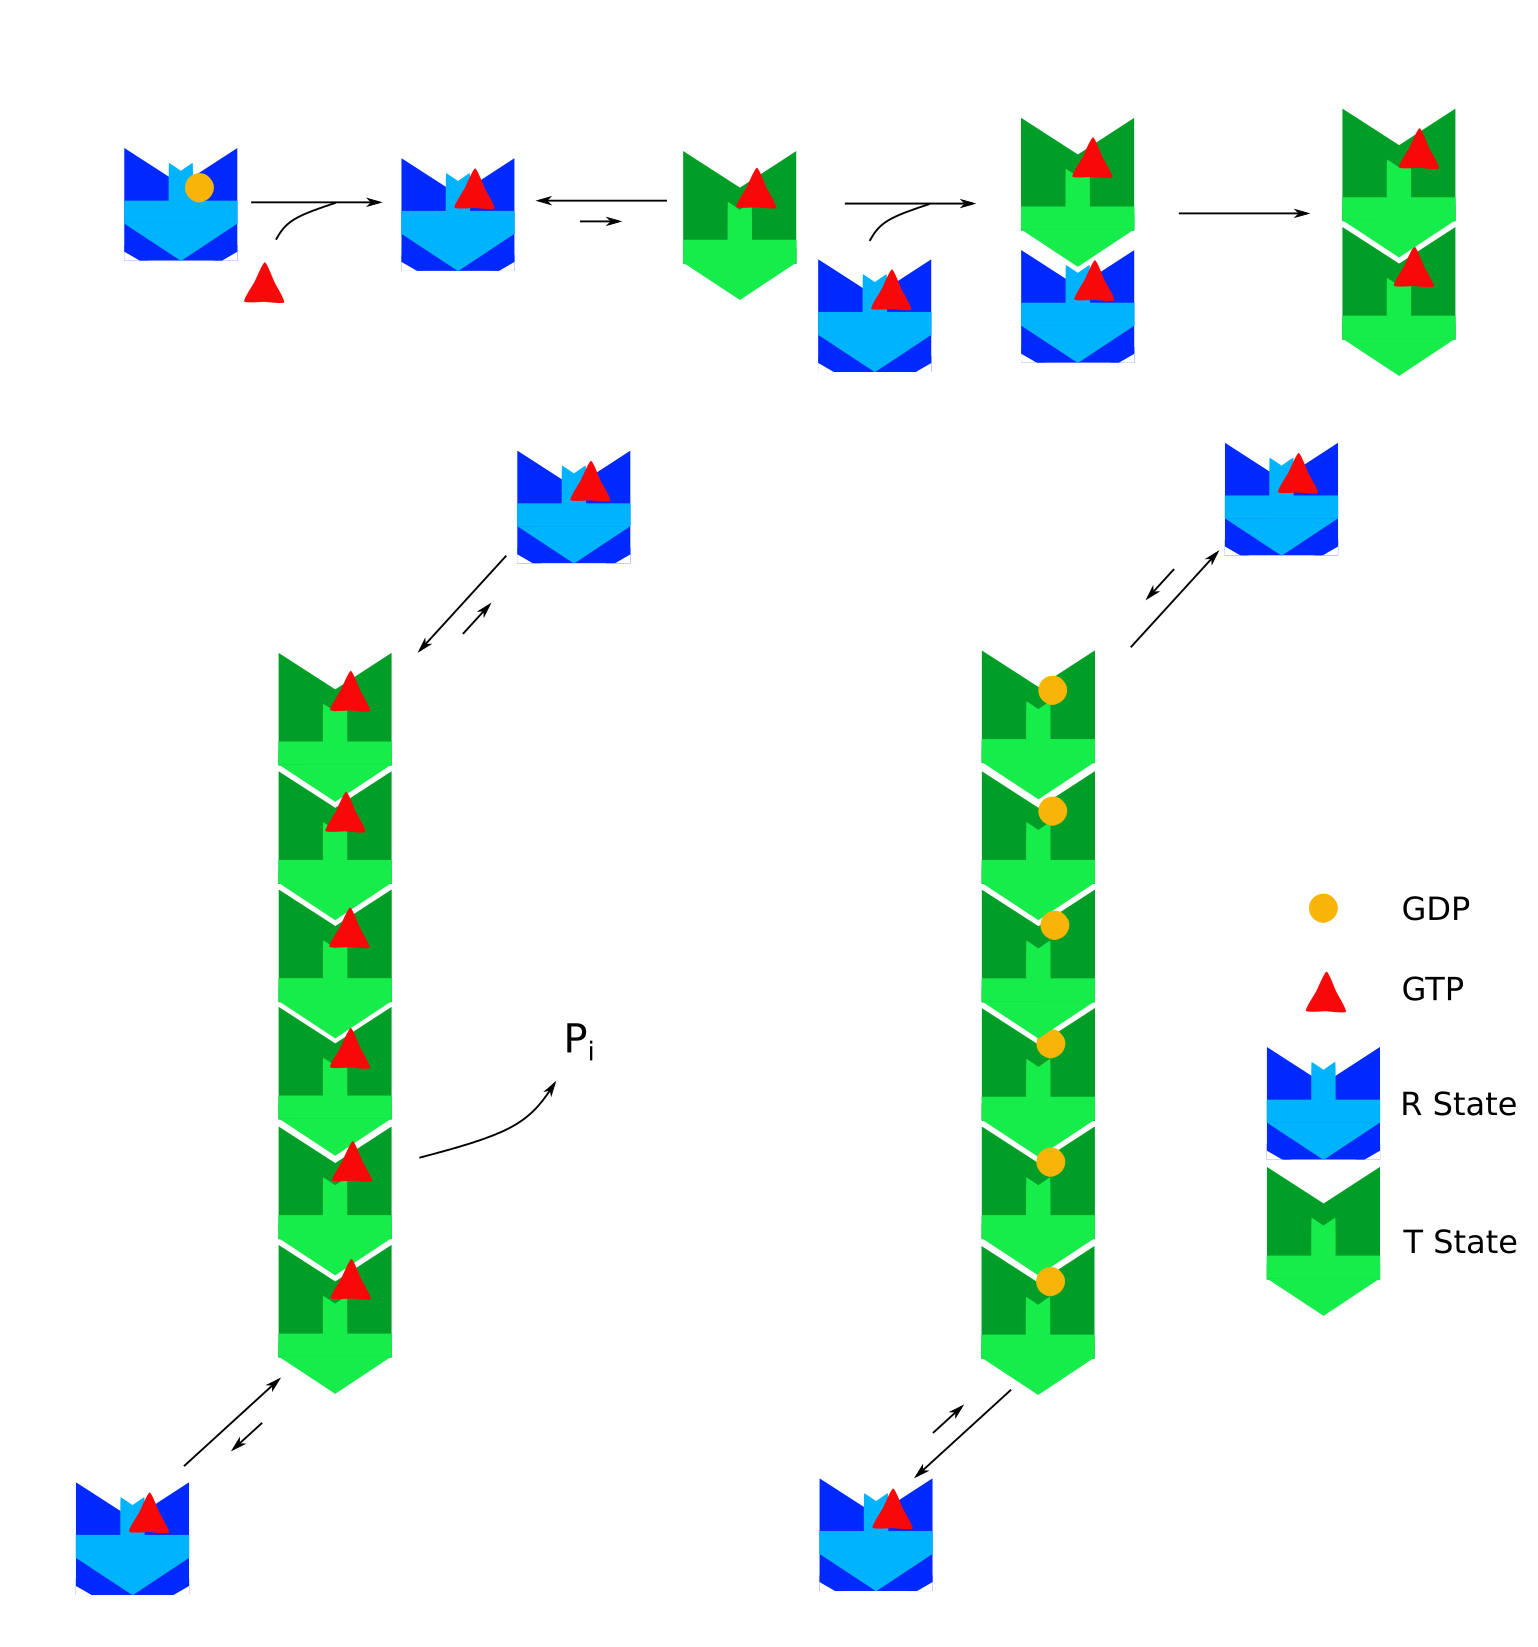
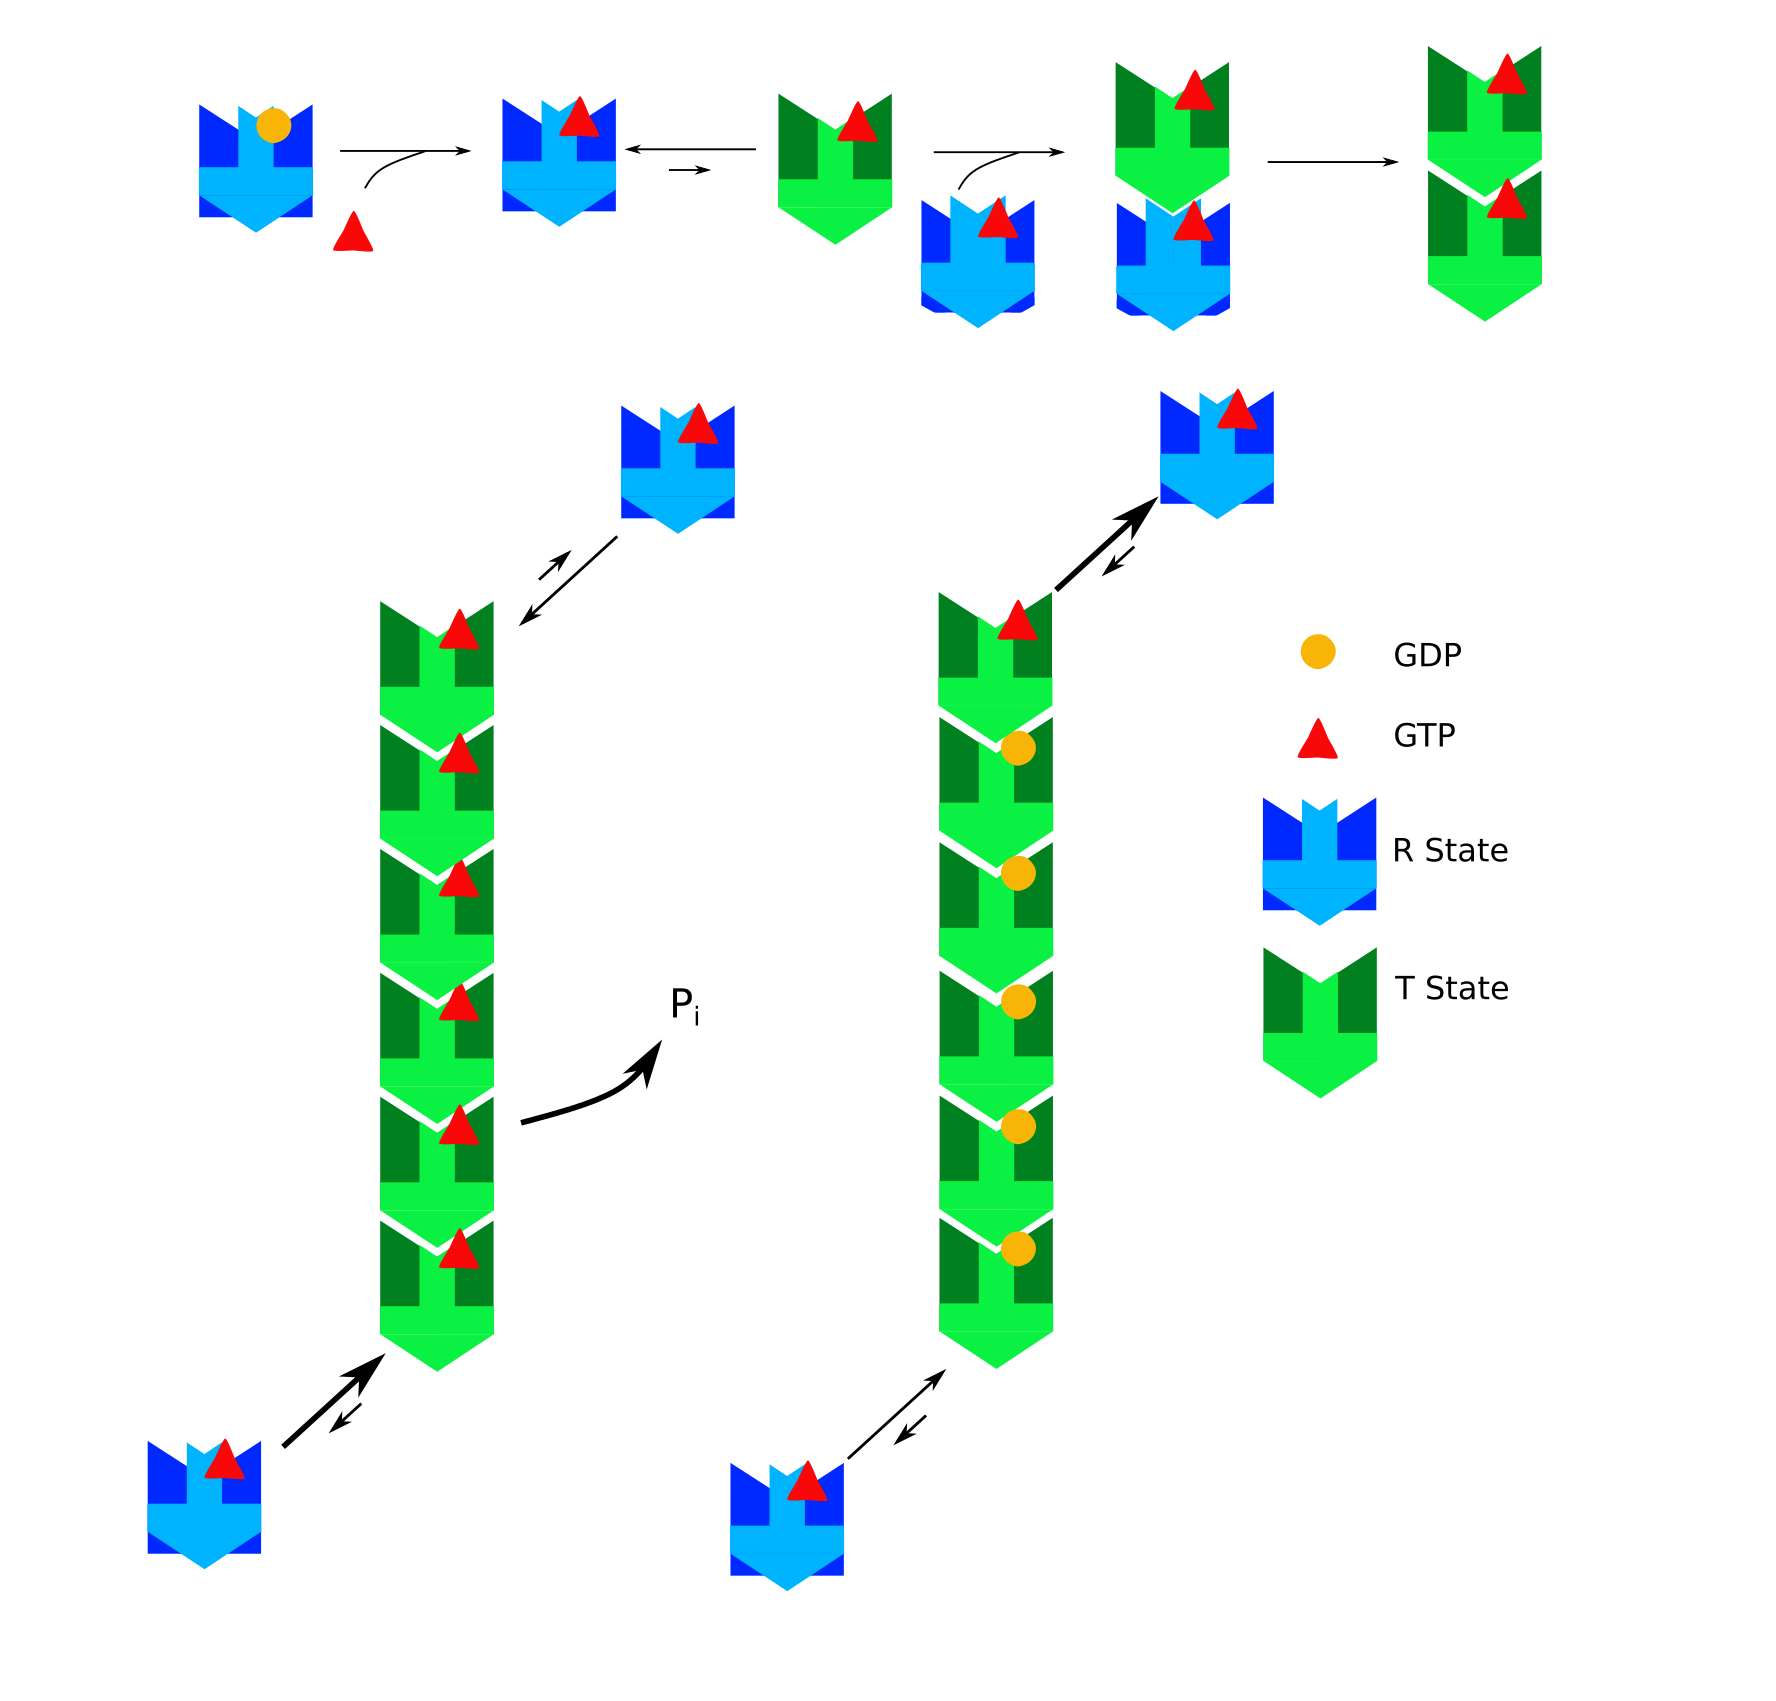
Added fragmentation and annealing. Updated figure to be same as mss

diff --git a/lib/export/output/resultsTable.html b/lib/export/output/resultsTable.html
@@ -5,22 +5,22 @@
 	</tr>
 	<tr>
 		<td>[Monomer]</td>
-		<td>0.65399</td>
+		<td>1.2701</td>
 	</tr>
 	<tr>
 		<td>Hydrolysis</td>
-		<td>24.5711</td>
+		<td>8.5901</td>
 	</tr>
 	<tr>
 		<td>PF Length</td>
-		<td>9.1203</td>
+		<td>94.5909</td>
 	</tr>
 	<tr>
 		<td>Treadmill Velocity</td>
-		<td>2.0776</td>
+		<td>3.6678</td>
 	</tr>
 	<tr>
 		<td>Proportion GTP in PF</td>
-		<td>64.5849</td>
+		<td>16.1306</td>
 	</tr>
 </table>

diff --git a/lib/export/output/parametersTable2.html b/lib/export/output/parametersTable2.html
@@ -15,8 +15,8 @@
 	</tr>
 	<tr>
 		<td>Top Off</td>
-		<td>6.5</td>
-		<td>0.5</td>
+		<td>8</td>
+		<td>0.8</td>
 	</tr>
 	<tr>
 		<td>Bottom Subunit</td>
@@ -30,7 +30,7 @@
 	</tr>
 	<tr>
 		<td>Bottom Off</td>
-		<td>5</td>
-		<td>5</td>
+		<td>8</td>
+		<td>8</td>
 	</tr>
 </table>

diff --git a/lib/export/output/parametersTable1.html b/lib/export/output/parametersTable1.html
@@ -27,14 +27,14 @@
 	</tr>
 	<tr>
 		<td>GDP Exchange</td>
-		<td>1</td>
+		<td>0.4</td>
 	</tr>
 	<tr>
 		<td>GTP Hydrolysis</td>
-		<td>0.3</td>
+		<td>0.4</td>
 	</tr>
 	<tr>
 		<td>Affinity Switch</td>
-		<td>30000</td>
+		<td>5000</td>
 	</tr>
 </table>

diff --git a/lib/runExperiment.m b/lib/runExperiment.m
@@ -16,7 +16,7 @@ function Outputs = runExperiment(Parameters, Kinetics, popup)
     currentTime = 0;
     iteration = 0;
     gdpOffCount = 0;
-
+    hydrolysisCount = 0;
     % Repeat this until iterated through entire time
     while (currentTime < roundTime) 
       gtpColor = gtpColorAssign(roundCount); % Assigns a "color" identifier to FtsZ. Important in pf mixing experiment
@@ -40,6 +40,7 @@ function Outputs = runExperiment(Parameters, Kinetics, popup)
           [Subunits, gdpOffCount] = exchangeMonomerGdp(Subunits, gdpOffCount);
         case 6 % Subunit in PF hydrolyzes GTP
           allPfs = hydrolysis(allPfs);
+          hydrolysisCount = hydrolysisCount + 1;
         case 7 % Nucleate new PF from one T state monomer and one R state monomer
           [allPfs, pfLocations, Subunits] = nucleation(allPfs, pfLocations, Subunits, gtpColor);
         case 8 % FtsZ subunit off top of PF (penultimate subunit is GDP bound)
@@ -71,7 +72,7 @@ function Outputs = runExperiment(Parameters, Kinetics, popup)
       % Housekeeping, done every so often
       if (mod(iteration, collectSampleStep)==0) 
         [allPfs, pfLocations] = removeEmptyCells(allPfs, pfLocations, currentTime, roundTime); % Empties data from PFs that disintegrated over time
-        Outputs = updateOutputs(Outputs, Subunits, allPfs, pfLocations, currentTime, gdpOffCount); % Saves output data
+        Outputs = updateOutputs(Outputs, Subunits, allPfs, pfLocations, currentTime, hydrolysisCount); % Saves output data
         if popup
           waitbar(currentTime./roundTime, waitPopup, 'Running experiment...');
         end
@@ -83,11 +84,11 @@ function Outputs = runExperiment(Parameters, Kinetics, popup)
       allPfs = mixPfs(allPfs); % Mixes assembled PFs if doing mixing experiment
     end
     if (roundCount==1 && Parameters.disassemblePfs==1)
-      Kinetics.kbongtp = Kinetics.kbongtp./100;
-      Kinetics.kbongdp = Kinetics.kbongdp./100;
-      Kinetics.ktongtp = Kinetics.ktongtp./100;
-      Kinetics.ktongdp = Kinetics.ktongdp./100;
-      Kinetics.kanneal = Kinetics.kanneal./100;
+      Kinetics.kbongtp = Kinetics.kbongtp./1000;
+      Kinetics.kbongdp = Kinetics.kbongdp./1000;
+      Kinetics.ktongtp = Kinetics.ktongtp./1000;
+      Kinetics.ktongdp = Kinetics.ktongdp./1000;
+      Kinetics.kanneal = Kinetics.kanneal./1000;
     end
     roundCount = roundCount + 1; % Iterates round count. Used if pre-assembling PFs for mixing
   end

diff --git a/@RunApp/addKinetic.m b/@RunApp/addKinetic.m
@@ -1,13 +1,6 @@
 function addKinetic(app, kineticName, location, units)
-  inputWidth = 0.16;
-  height = 0.04;
-  labelName = strcat(kineticName, 'Input');
-  kineticPanel = uipanel('Parent',app.modelPanel, 'BackgroundColor', 'w', 'BorderType', 'none', 'Units', 'normalized', 'Position', [location(1) location(2) inputWidth height]);
-  app.(labelName) = uicontrol('Parent', kineticPanel,'Style','edit','String',app.Kinetics.(kineticName),'Units','normalized','Position',[0, 0, 0.45, 1]);
-  labelAxes = axes('Parent', kineticPanel,  'Units', 'normalized', 'Position', [0.45, 0.05, 0.55, 0.95]);
-  labelAxes.XAxis.Color = 'w';
   if (units==0)
-    label = ' ';
+    label = '';
   elseif (units==1)
     label = ' s^-^1';
   elseif (units==2)
@@ -17,6 +10,19 @@ function addKinetic(app, kineticName, location, units)
   elseif (units==4)
     label = ' anneal';
   end
+
+  boxCharacters = 8;
+  fullWidth = (length(label)+boxCharacters)*0.007;
+  boxProportion = boxCharacters./(length(label) + boxCharacters);
+
+  
+  height = 0.04;
+  labelName = strcat(kineticName, 'Input');
+  kineticPanel = uipanel('Parent',app.modelPanel, 'BackgroundColor', 'w', 'BorderType', 'none', 'Units', 'normalized', 'Position', [location(1) location(2) fullWidth height]);
+  app.(labelName) = uicontrol('Parent', kineticPanel,'Style','edit','String',app.Kinetics.(kineticName),'Units','normalized','Position',[0, 0, boxProportion, 1]);
+  labelAxes = axes('Parent', kineticPanel,  'Units', 'normalized', 'Position', [boxProportion, 0.05, 1-boxProportion, 0.95]);
+  labelAxes.XAxis.Color = 'w';
+  
   text(labelAxes,'String', label,'Interpreter','tex','HorizontalAlignment', 'left','VerticalAlignment', 'bottom','Units','normalized','Position',[0, 0]);
 
 end

diff --git a/@RunApp/formatApp.m b/@RunApp/formatApp.m
@@ -13,14 +13,19 @@ function app = formatApp(app)
   imshow(im, 'Parent', modelDiagramAxes);
   set(modelDiagramAxes,'TickLength',[0,0]);
 
-  addKinetic(app, 'kbongtp', [0.01, 0.14], 2);
-  addKinetic(app, 'kboffgtp', [0.18, 0.08], 1);
+  offset = [0.17, -0.06];
 
-  addKinetic(app, 'kbongdp', [0.45, 0.14], 2);
-  addKinetic(app, 'kboffgdp', [0.62, 0.08], 1);
+  anchorPoint = [0.01, 0.18];
+  addKinetic(app, 'kbongtp', anchorPoint, 2);
+  addKinetic(app, 'kboffgtp', anchorPoint + offset, 1);
 
-  addKinetic(app, 'ktongdp', [0.57, 0.65], 2);
-  addKinetic(app, 'ktoffgdp', [0.74, 0.59], 1);
+  anchorPoint = [0.35, 0.18];
+  addKinetic(app, 'kbongdp', anchorPoint, 2);
+  addKinetic(app, 'kboffgdp', anchorPoint + offset, 1);
+
+  anchorPoint = [0.5, 0.68];
+  addKinetic(app, 'ktoffgdp', anchorPoint, 1);
+  addKinetic(app, 'ktongdp', anchorPoint + offset, 2);
 
   addKinetic(app, 'ktongtp', [0.15, 0.65], 2);
   addKinetic(app, 'ktoffgtp', [0.32, 0.59], 1);
@@ -29,8 +34,9 @@ function app = formatApp(app)
   addKinetic(app, 'khyd', [0.35, 0.25], 1);
   addKinetic(app, 'knuc', [0.35, 0.91], 0);
 
-  addKinetic(app, 'kanneal', [0.43, 0.5], 4);
-  addKinetic(app, 'kfragment', [0.43, 0.55], 3);
+  anchorPoint = [0.7, 0.1];
+  addKinetic(app, 'kanneal', anchorPoint, 4);
+  addKinetic(app, 'kfragment', anchorPoint - [0 0.05], 3);
 
   %set(app.modelPanel, 'Units', 'normalized');
   %% Input Panel Components

diff --git a/lib/gillespie/determineTau.m b/lib/gillespie/determineTau.m
@@ -69,7 +69,7 @@ function [allProbs, tau, Subunits] = determineTau(Subunits, allPfs, Kinetics);
   num = 7;
   reactant1(num) = Subunits.monomerNum;
   reactant2(num) =  Subunits.monomerNum./(1+Kinetics.knuc); %%%%% CHANGE HERE %%%%%%
-  kinetic(num) = secondOrderConverter(Kinetics.kbongtp);
+  kinetic(num) = secondOrderConverter(10);
 
   % Top off PF with GDP penultimate
   num = 8;
@@ -139,13 +139,10 @@ function [allProbs, tau, Subunits] = determineTau(Subunits, allPfs, Kinetics);
 
   % PF fragmentation
   num = 19;
-  reactant1(num) = gtpBottomNum;
+  reactant1(num) = pfGtp;
   reactant2(num) = 1;
-  kinetic(num) =  Kinetics.kfragment;
+  kinetic(num) = 0;% Kinetics.kfragment.*10;
 
-%  reactant1(num) = gtpBottomNum - 1;
-%  reactant2(num) = gtpPenultimateNum;
-%  kinetic(num) =  secondOrderConverter(Kinetics.kanneal);
 
 
 

diff --git a/lib/data/kineticsEcF268C.m b/lib/data/kineticsEcF268C.m
@@ -1,5 +1,5 @@
 function Kinetics = kineticsEcF268C()
-    Kinetics.kbongtp = 10;
+  Kinetics.kbongtp = 10;
   Kinetics.kboffgtp = 3;
 
   Kinetics.kbongdp = 10;
@@ -20,7 +20,7 @@ function Kinetics = kineticsEcF268C()
   Kinetics.kgdpexchange = 0.5;
   Kinetics.knuc = 1000;
 
-  Kinetics.kanneal = 10;
-  Kinetics.kfragment = 0.01;
+  Kinetics.kanneal = 1;
+  Kinetics.kfragment = 0.0001;
   
 end

diff --git a/lib/data/kineticsBs.m b/lib/data/kineticsBs.m
@@ -14,12 +14,12 @@ function Kinetics = kineticsBs()
   Kinetics.capKd = 0.15;
   Kinetics.kcaponpf = 10;
   Kinetics.kcapoffpf = 8; 
-  Kinetics.kcapoffpfgdp = 0.001;
+  Kinetics.kcapoffpfgdp = 0.01;
 
-  Kinetics.khyd = 0.5;
+  Kinetics.khyd = 0.4;
   Kinetics.kgdpexchange = 0.4;
   Kinetics.knuc = 5000;
 
-  Kinetics.kanneal = 10;
+  Kinetics.kanneal = 5;
   Kinetics.kfragment = 0.0001;
 end

diff --git a/lib/data/kineticsEcL68W.m b/lib/data/kineticsEcL68W.m
@@ -17,9 +17,9 @@ function Kinetics = kineticsEcL68W()
   Kinetics.kcapoffpfgdp = 0.01;
 
   Kinetics.khyd = 0.3;
-  Kinetics.kgdpexchange = 2;
-  Kinetics.knuc = 500;
+  Kinetics.kgdpexchange = 1;
+  Kinetics.knuc = 50;
 
-  Kinetics.kanneal = 10;
-  Kinetics.kfragment = 0.00001;
+  Kinetics.kanneal = 3;
+  Kinetics.kfragment = 0.0001;
 end

diff --git a/lib/data/kineticsEcL68W_EDTA.m b/lib/data/kineticsEcL68W_EDTA.m
@@ -17,9 +17,9 @@ function Kinetics = kineticsEcL68W_EDTA()
   Kinetics.kcapoffpfgdp = 0.01;
 
   Kinetics.khyd = 0;
-  Kinetics.kgdpexchange = 2;
-  Kinetics.knuc = 500;
+  Kinetics.kgdpexchange = 0.8;
+  Kinetics.knuc = 50;
 
   Kinetics.kanneal = 1;
-  Kinetics.kfragment = 0.00001;
+  Kinetics.kfragment = 0.0001;
 end
